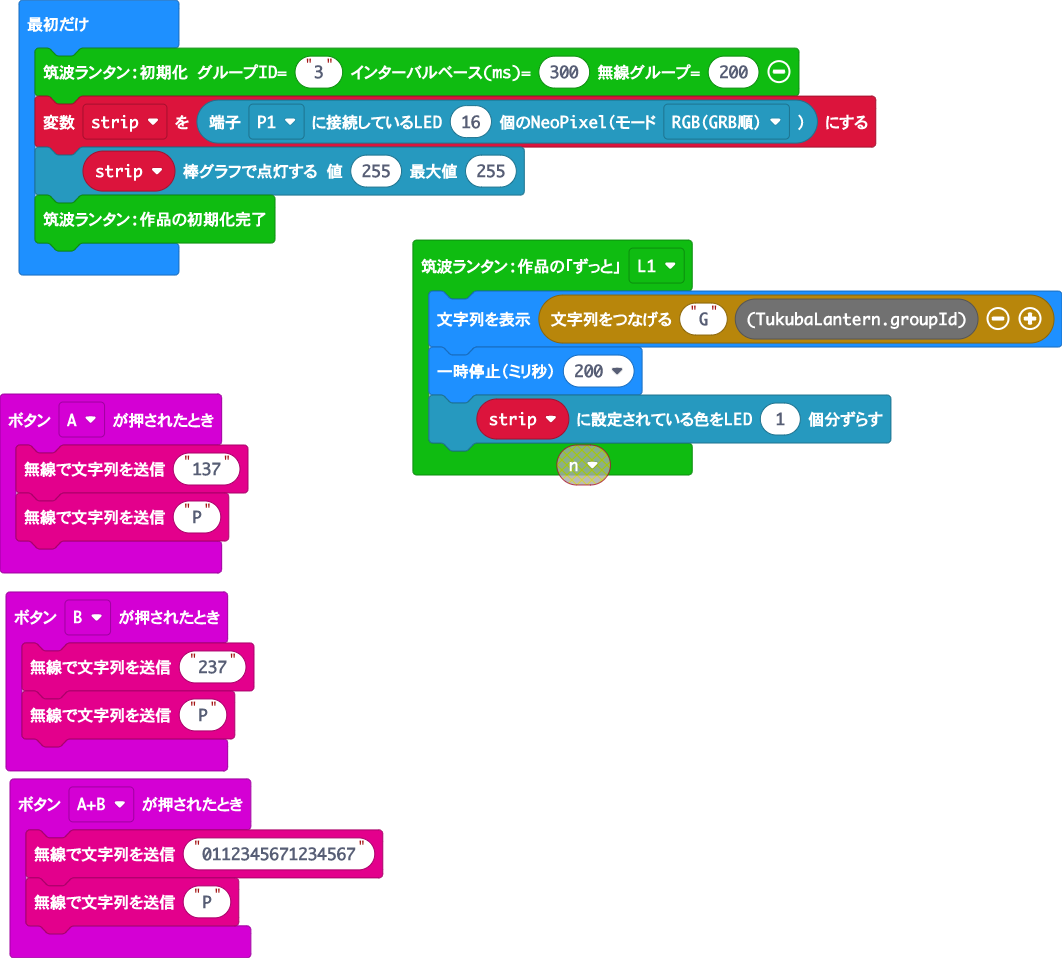
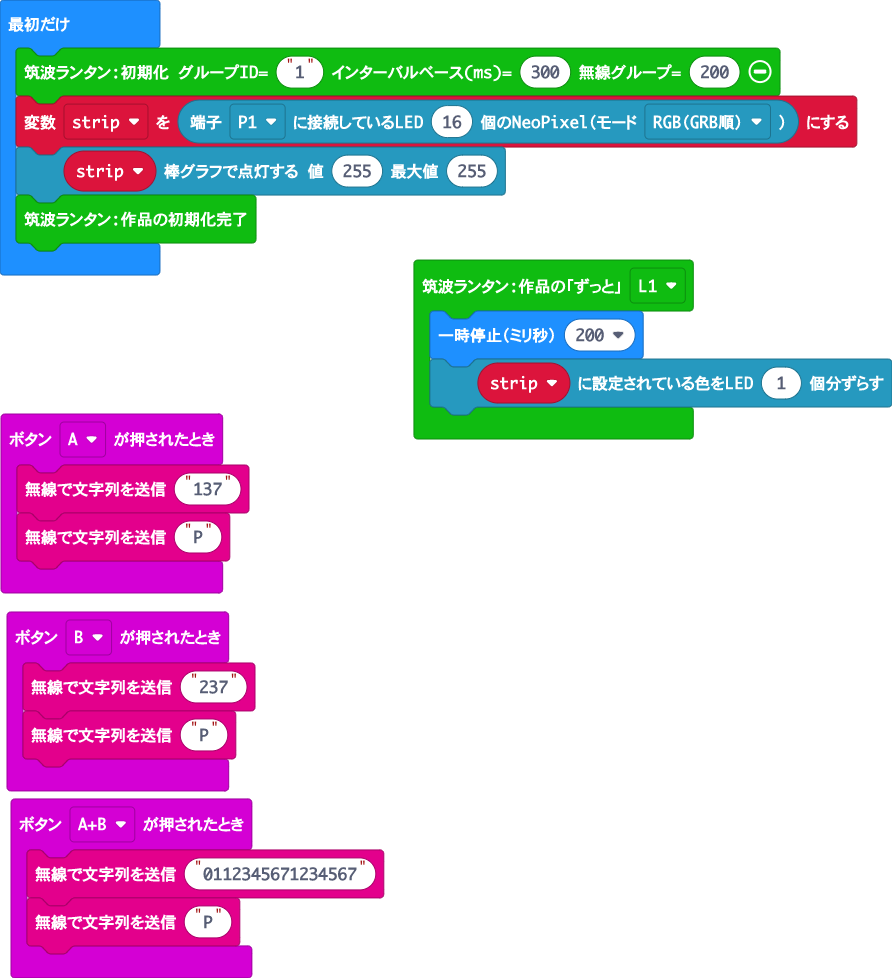
色データが無ければプログラムモードに移行しないようにした

Changed region(s): [[0.0, 0.3935, 0.454, 1.0], [0.0, 0.0, 0.9686, 0.3027], [0.3632, 0.2422, 1.0, 0.5146]]

diff --git a/custom.ts b/custom.ts
@@ -127,6 +127,7 @@ namespace TukubaLantern {
                 playStarted = true
             }
             if (colors.length === 0) {
+                // 色データが無くなったらユーザモードに移行
                 inputData("U")
                 return
             }
@@ -142,6 +143,10 @@ namespace TukubaLantern {
     export function inputData(data: string) {
         const c0 = data.substr(0, 1)
         if (c0 == "P") {
+            if(colors.length == 0) {
+                // 色データが無ければプログラムモードに移行しない
+                return
+            }
             stripPMode.showColor(neopixel.rgb(0, 0, 0))
             mode = "P"
             return

diff --git a/main.ts b/main.ts
@@ -15,7 +15,7 @@ input.onButtonPressed(Button.B, function () {
     radio.sendString("P")
 })
 let strip: neopixel.Strip = null
-TukubaLantern.lanternInit("3", 300, 200)
+TukubaLantern.lanternInit("1", 300, 200)
 strip = neopixel.create(DigitalPin.P1, 16, NeoPixelMode.RGB)
 strip.showBarGraph(255, 255)
 TukubaLantern.lanternUserInitialized()
